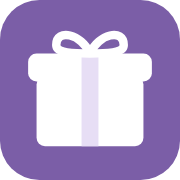
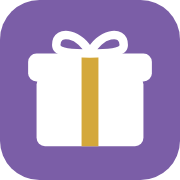
Palette « Mauve & or »
- Or (#D4A83A) pour les touches : comptes à rebours, liserés des titres,
  filet sous l'en-tête et sous les bandeaux d'événement, onglet actif
- Boutons principaux dorés (dégradé, texte aubergine)
- En-têtes « Pour … » sur fond crème doré avec filet or, avatars cerclés d'or
- Ruban de l'icône en or

Claude-Session: https://claude.ai/code/session_01TBAG7L9Q4kbcYh63GcMJBF

Changed region(s): [[0.4444, 0.3056, 0.5556, 0.8333]]

diff --git a/src/app/(app)/page.tsx b/src/app/(app)/page.tsx
@@ -129,7 +129,7 @@ export default async function HomePage({ searchParams }: PageProps<"/">) {
 
         return (
           <section key={e.id} id={`evt-${e.id}`} className={`-mx-4 mb-12 scroll-mt-20 border-y-2 sm:mx-0 sm:border-2 ${zone.zone}`}>
-            <div className={`flex items-center justify-between gap-3 px-4 py-3 ${zone.band}`}>
+            <div className={`flex items-center justify-between gap-3 border-b-[3px] border-accent px-4 py-3 ${zone.band}`}>
               <h2 className="min-w-0 truncate text-lg font-extrabold">
                 🎁 {e.name} <span className={`text-sm font-bold ${zone.accent}`}>· {eventCountdown(e)}</span>
               </h2>
@@ -175,7 +175,7 @@ export default async function HomePage({ searchParams }: PageProps<"/">) {
                   id={back(p.id).slice(2)}
                   className="mb-4 scroll-mt-20 overflow-hidden rounded-2xl border-2 border-line bg-white shadow-md"
                 >
-                  <div className="flex items-center gap-2 border-b-2 border-brand-100 bg-brand-50 px-3 py-2.5">
+                  <div className="flex items-center gap-2 border-b-2 border-accent bg-brand-50 px-3 py-2.5">
                     <Avatar member={p} />
                     <div className="min-w-0 flex-1">
                       <h3 className="truncate text-lg font-extrabold text-brand-700">Pour {p.display_name}</h3>

diff --git a/src/app/(app)/evenements/[id]/page.tsx b/src/app/(app)/evenements/[id]/page.tsx
@@ -102,7 +102,7 @@ export default async function EventPage({ params, searchParams }: PageProps<"/ev
     <>
       <header className="mb-5">
         <Link href="/" className="mb-2 inline-flex text-sm font-semibold text-muted hover:text-ink">← Accueil</Link>
-        <div className="band flex items-start justify-between gap-3 rounded-2xl p-5 shadow-sm">
+        <div className="band flex items-start justify-between gap-3 rounded-2xl border-b-[3px] border-accent p-5 shadow-sm">
           <div className="min-w-0">
             <h1 className="text-2xl font-extrabold tracking-tight sm:text-3xl">🎁 {event.name}</h1>
             <p className="text-sm text-band-ink/85">
@@ -147,7 +147,7 @@ export default async function EventPage({ params, searchParams }: PageProps<"/ev
               scroll={false}
               aria-current={active ? "page" : undefined}
               className={`flex shrink-0 items-center gap-1.5 rounded-full border py-1 pl-1 pr-3 text-sm font-bold transition ${
-                active ? "border-brand-600 bg-brand-600 text-white" : "border-line bg-white hover:border-brand-200"
+                active ? "border-brand-600 bg-brand-600 text-white ring-2 ring-accent" : "border-line bg-white hover:border-brand-200"
               }`}
             >
               <Avatar member={p} size="sm" />

diff --git a/src/app/globals.css b/src/app/globals.css
@@ -18,17 +18,21 @@
   --font-sans: var(--font-nunito), ui-sans-serif, system-ui, sans-serif;
 }
 
-/* Thème « Mauve argenté » : aubergine grisé, boutons mauve, touches argentées */
+/* Thème « Mauve & or » : aubergine grisé, mauve, et or pour les touches et les boutons */
 :root {
-  --brand-50: #f3effa;
-  --brand-100: #e7def5;
+  --brand-50: #fcf7ea;
+  --brand-100: #f7ecd0;
   --brand-200: #d2c3ec;
   --brand-500: #9479c4;
   --brand-600: #7b5ea7;
   --brand-700: #5f4787;
   --band: #4a3657;
   --band-ink: #f4f2f8;
-  --accent: #cfcfdc;
+  /* Or : touches, filets et boutons principaux */
+  --accent: #d4a83a;
+  --gold-light: #e2bb55;
+  --gold-dark: #b88a1e;
+  --gold-ink: #2b1f33;
   --ink: #1e1b24;
   --muted: #5b5866;
   --line: #d9d6e2;
@@ -52,7 +56,9 @@ body {
     disabled:cursor-not-allowed disabled:opacity-50 active:scale-[0.98];
 }
 @utility btn-primary {
-  @apply btn bg-brand-600 text-white shadow-sm hover:bg-brand-700;
+  @apply btn shadow-sm hover:brightness-95;
+  background: linear-gradient(180deg, var(--gold-light), var(--gold-dark));
+  color: var(--gold-ink);
 }
 @utility btn-secondary {
   @apply btn border-2 border-line bg-white text-ink hover:border-brand-200 hover:bg-brand-50;

diff --git a/src/app/(app)/listes/[memberId]/page.tsx b/src/app/(app)/listes/[memberId]/page.tsx
@@ -66,7 +66,7 @@ export default async function ListPage({ params }: PageProps<"/listes/[memberId]
               href={`/listes/${m.id}`}
               aria-current={m.id === owner.id ? "page" : undefined}
               className={`flex shrink-0 items-center gap-1.5 rounded-full border py-1 pl-1 pr-3 text-sm font-bold ${
-                m.id === owner.id ? "border-brand-600 bg-brand-600 text-white" : "border-line bg-white hover:border-brand-200"
+                m.id === owner.id ? "border-brand-600 bg-brand-600 text-white ring-2 ring-accent" : "border-line bg-white hover:border-brand-200"
               }`}
             >
               <Avatar member={m} size="sm" />

diff --git a/src/app/(app)/layout.tsx b/src/app/(app)/layout.tsx
@@ -18,7 +18,7 @@ export default async function AppLayout({ children }: { children: React.ReactNod
       <Suspense>
         <Flash />
       </Suspense>
-      <header className="band sticky top-0 z-30 shadow-md">
+      <header className="band sticky top-0 z-30 border-b-[3px] border-accent shadow-md">
         <div className="mx-auto flex h-14 max-w-3xl items-center gap-4 px-4">
           <Link href="/" className="flex items-center gap-2 text-lg font-extrabold">
             {/* eslint-disable-next-line @next/next/no-img-element */}

diff --git a/src/components/ui.tsx b/src/components/ui.tsx
@@ -24,7 +24,7 @@ export function Avatar({ member, size = "md" }: { member?: Pick<Member, "id" | "
   return (
     <span
       title={member.display_name}
-      className={`${dims} ${colorFor(member.id)} inline-flex shrink-0 items-center justify-center rounded-full font-extrabold ring-2 ring-white`}
+      className={`${dims} ${colorFor(member.id)} inline-flex shrink-0 items-center justify-center rounded-full font-extrabold ring-2 ring-accent`}
     >
       {member.display_name.slice(0, 1).toUpperCase()}
     </span>
